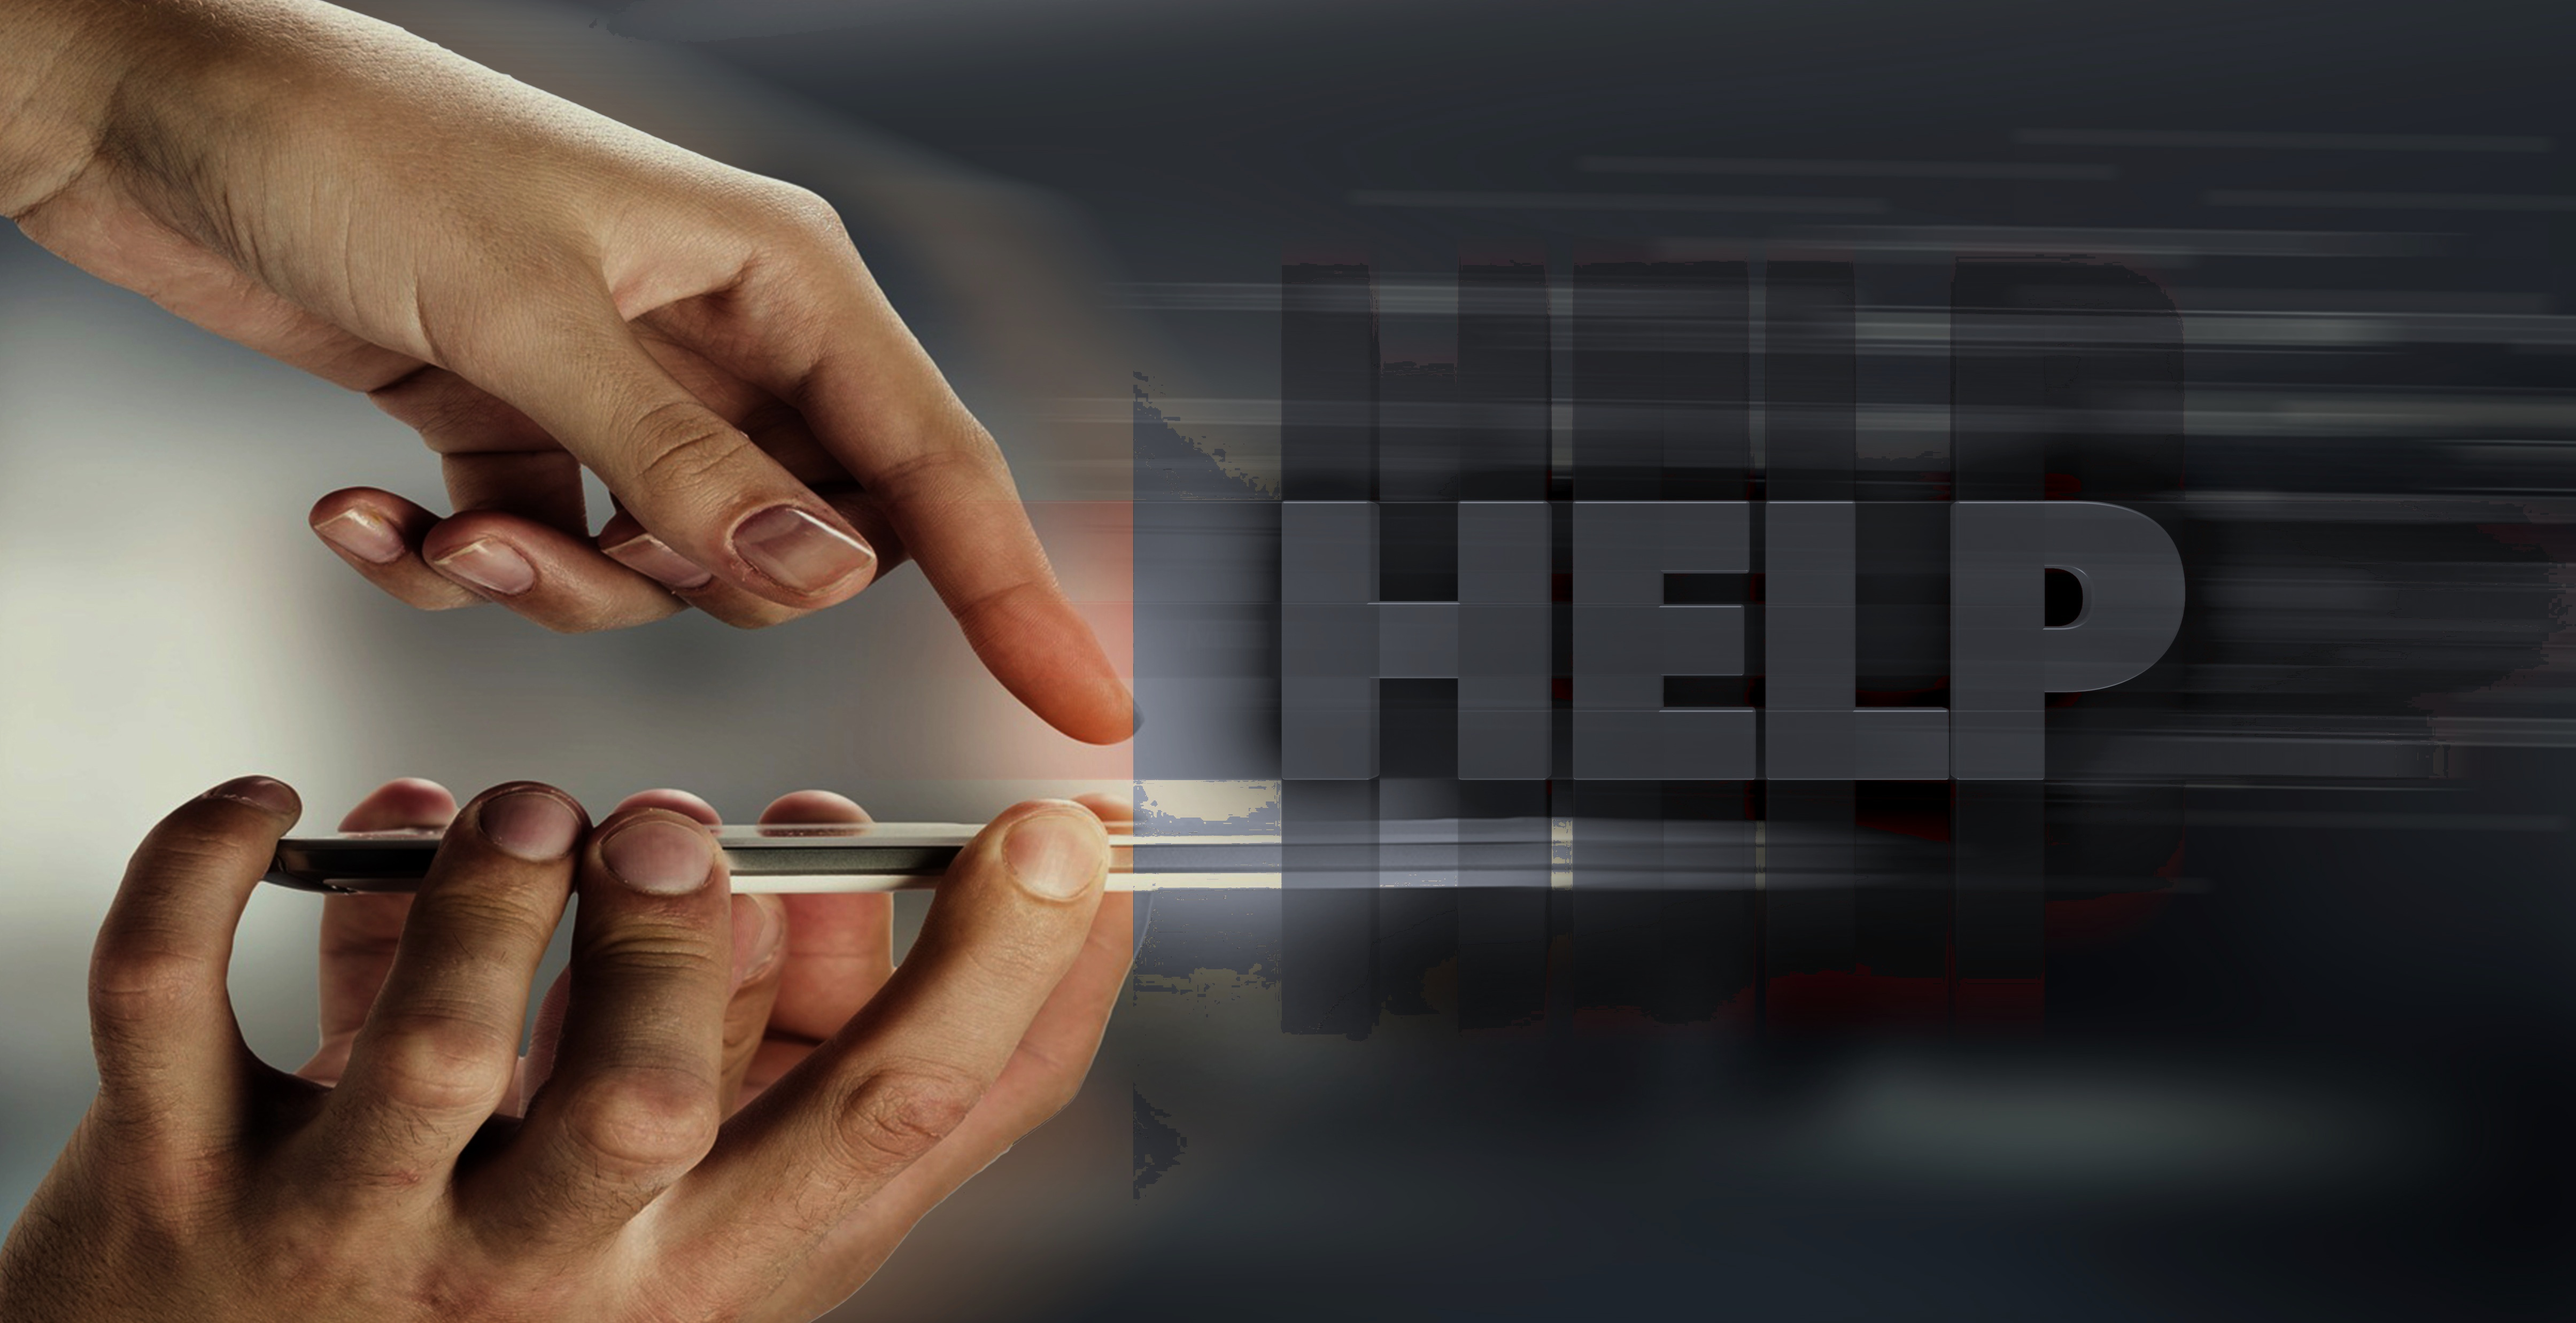
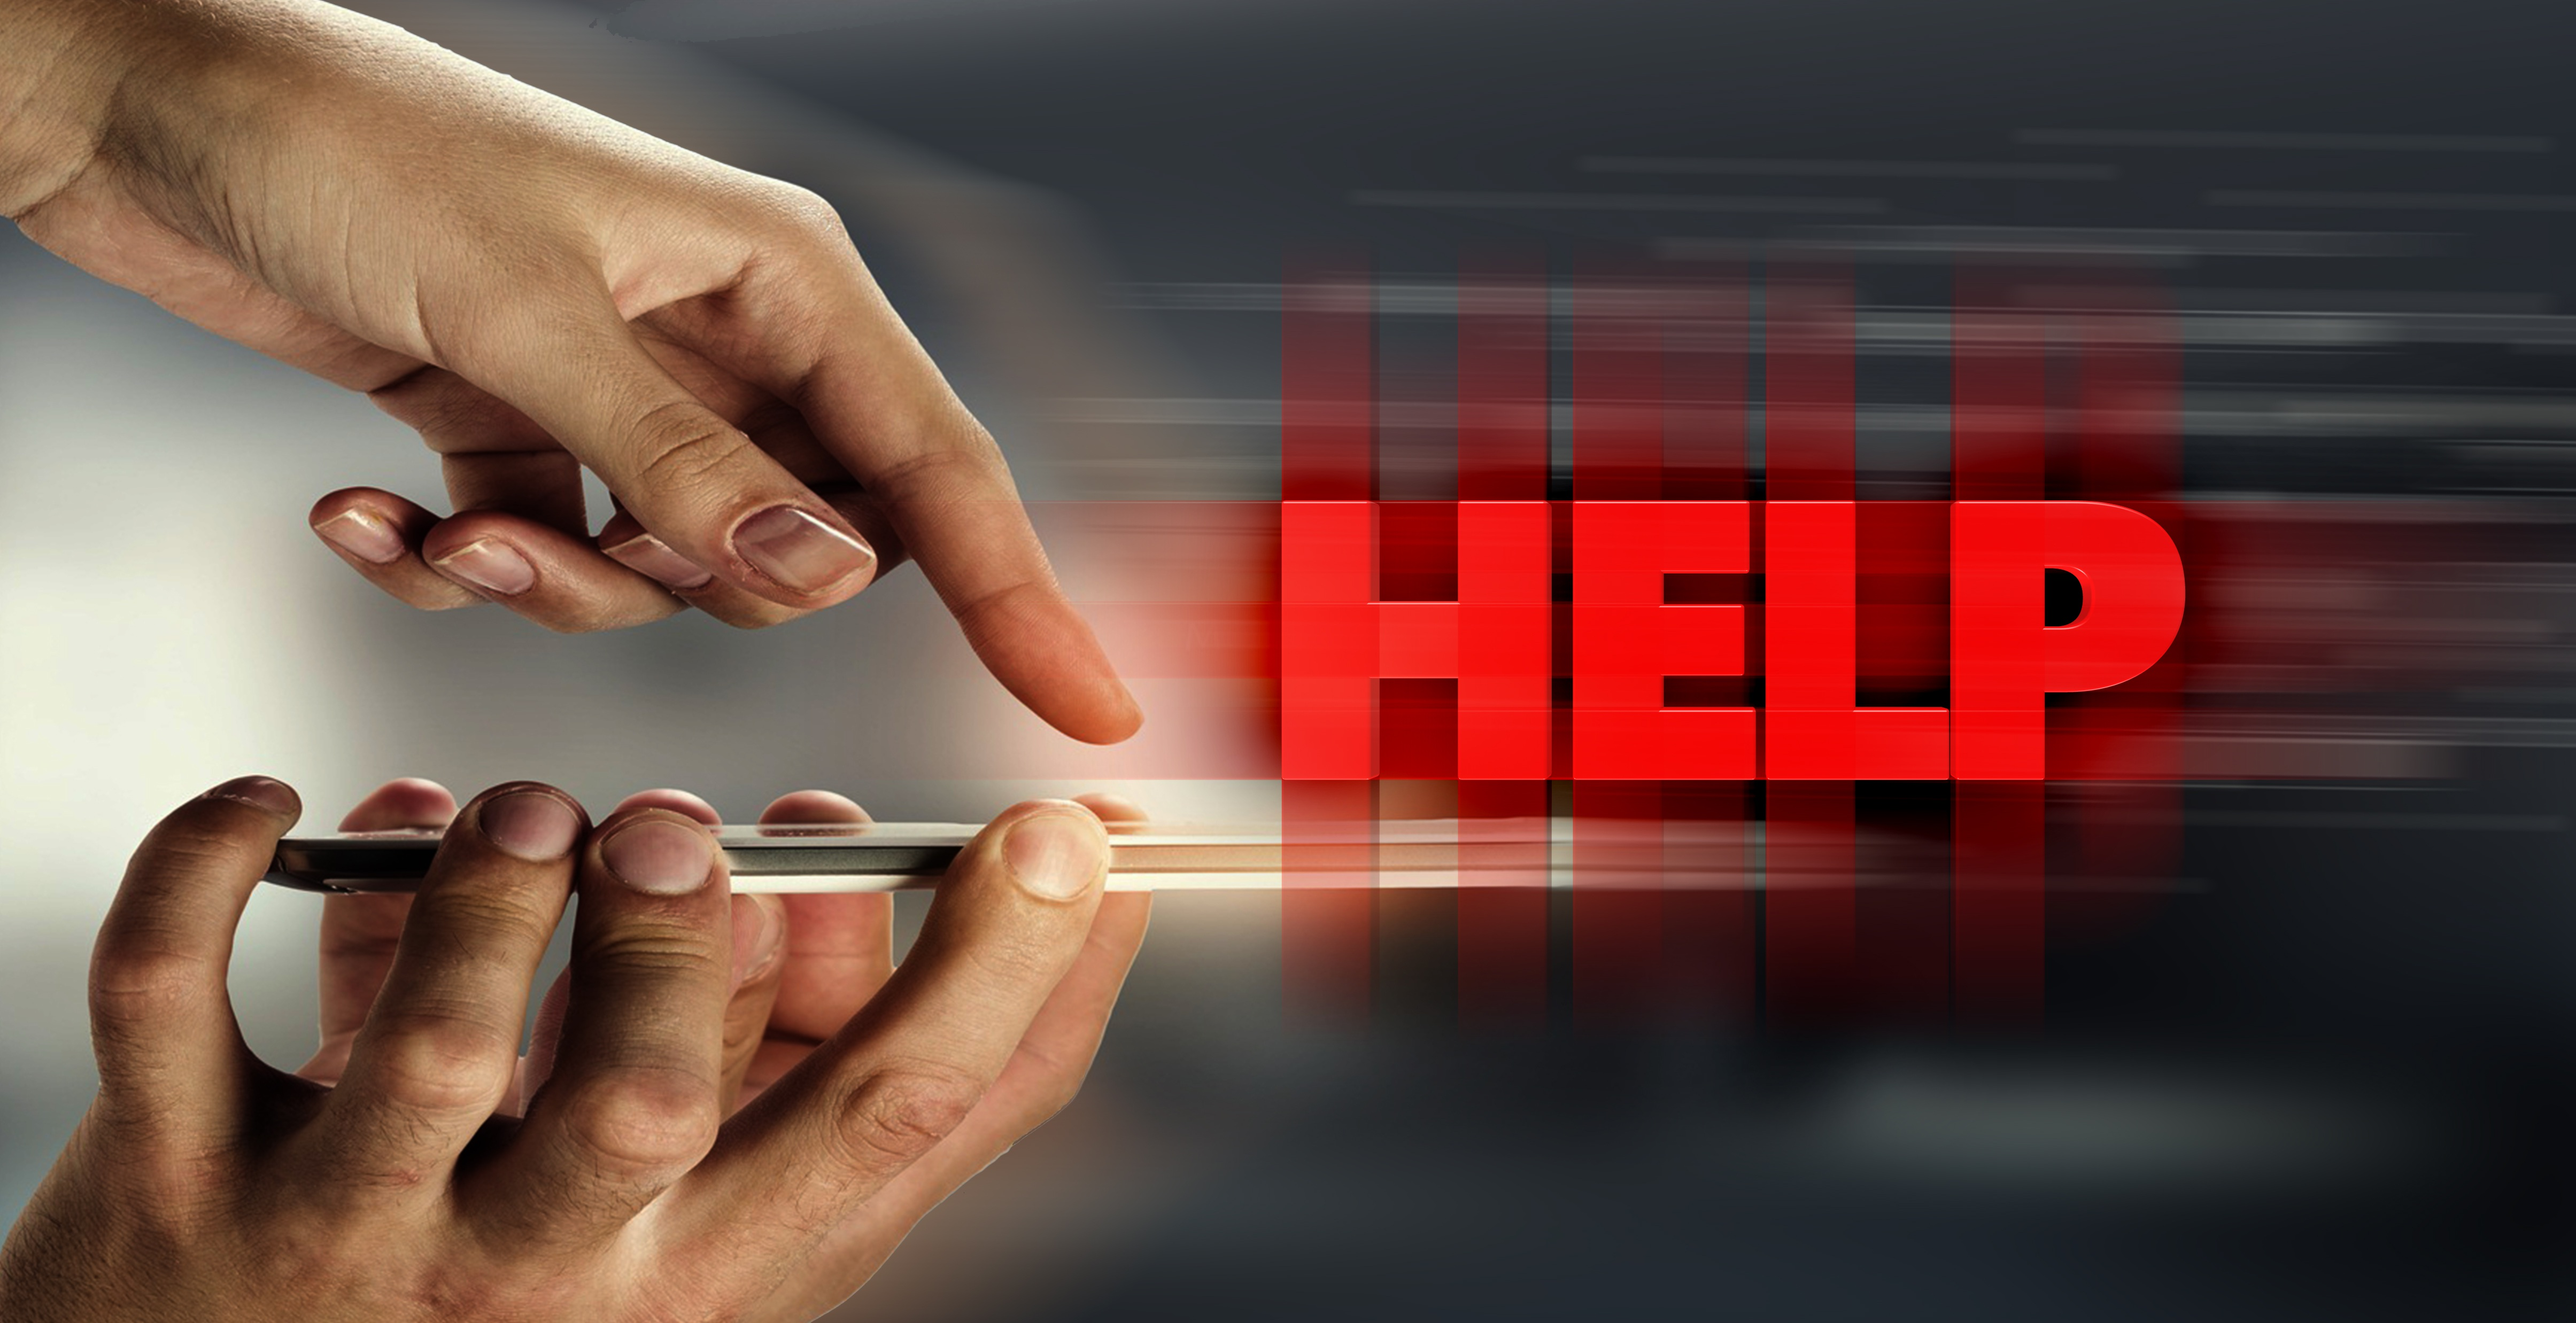
fix(home): revert help image to original and document mandatory docker-native build rule
Restore original authentic help-desk-mobile.jpg media and hero veil styles on citizen landing page. Document mandatory rules in 02_FRONTEND_DESIGN.md and 04_DESIGN_AND_DEVELOPMENT_RULES.md requiring all frontend builds to run strictly inside Docker containers (prohibiting host npm run build) and preserving hero media integrity.

diff --git a/frontend/src/app/globals.css b/frontend/src/app/globals.css
@@ -1089,15 +1089,15 @@ textarea {
   height: 100%;
   object-fit: cover;
   display: block;
-  filter: saturate(0.85) contrast(1.05) brightness(0.88);
+  filter: saturate(0.85) contrast(1.05) brightness(0.92);
 }
 
 .home-hero-veil {
   position: absolute;
   inset: 0;
   background:
-    radial-gradient(ellipse 75% 70% at 35% 45%, transparent 20%, rgba(15, 23, 42, 0.45) 75%, rgba(15, 23, 42, 0.65) 100%),
-    linear-gradient(90deg, rgba(15, 23, 42, 0.55) 0%, rgba(15, 23, 42, 0.3) 45%, transparent 75%);
+    radial-gradient(ellipse 70% 65% at 35% 45%, transparent 25%, rgba(15, 23, 42, 0.35) 75%, rgba(15, 23, 42, 0.55) 100%),
+    linear-gradient(90deg, rgba(15, 23, 42, 0.45) 0%, rgba(15, 23, 42, 0.2) 45%, transparent 70%);
 }
 
 .home-hero-brand {

diff --git a/docs/04_DESIGN_AND_DEVELOPMENT_RULES.md b/docs/04_DESIGN_AND_DEVELOPMENT_RULES.md
@@ -50,7 +50,7 @@ Each backend module under `app/modules/` owns exactly one domain (per `03_BACKEN
 
 ## Section F — Frontend Development Rules
 
-Use the design system tokens in `02_FRONTEND_DESIGN.md` §2 exclusively — no arbitrary hex colors, font sizes, or spacing values introduced ad hoc. Reuse the component list in §4 before creating a new component; a new component is only justified if no existing one (and no reasonable variant of one) covers the need. Every data-driven screen implements the full UX-state set from §6 (initial/loading/success/empty/error/disabled/processing/partially-loaded/unauthorized/expired-session) — a screen with only a happy-path implementation is incomplete, not "done for now." Preserve the priority-pinning behavior for SOS/critical incidents in any component that renders an incident list — this is a safety-relevant UX rule, not a cosmetic one. Keep API-calling logic inside hooks/`lib/api`, never inside `ui/` presentational components. Never hardcode incident/resource data in a component — all such data flows through the typed API client.
+Use the design system tokens in `02_FRONTEND_DESIGN.md` §2 exclusively — no arbitrary hex colors, font sizes, or spacing values introduced ad hoc. Reuse the component list in §4 before creating a new component; a new component is only justified if no existing one (and no reasonable variant of one) covers the need. Every data-driven screen implements the full UX-state set from §6 (initial/loading/success/empty/error/disabled/processing/partially-loaded/unauthorized/expired-session) — a screen with only a happy-path implementation is incomplete, not "done for now." Preserve the priority-pinning behavior for SOS/critical incidents in any component that renders an incident list — this is a safety-relevant UX rule, not a cosmetic one. Keep API-calling logic inside hooks/`lib/api`, never inside `ui/` presentational components. Never hardcode incident/resource data in a component — all such data flows through the typed API client. **Docker-Native Build Rule:** All frontend builds (`npm run build`), dependency additions, and build verifications MUST run inside Docker containers (`docker compose run --rm frontend npm run build`), NEVER as host-level `npm run build`. This prevents local/container cache collisions. Preserve brand/hero imagery (`public/media/help-desk-mobile.jpg`) and its container presentation without aggressive desaturation or muting.
 
 ## Section G — Backend Development Rules
 

diff --git a/docs/02_FRONTEND_DESIGN.md b/docs/02_FRONTEND_DESIGN.md
@@ -195,6 +195,8 @@ src/
 **Environment variables:** `NEXT_PUBLIC_API_BASE_URL`, `NEXT_PUBLIC_WS_URL`, `NEXT_PUBLIC_MAP_TILE_URL` — no secrets in frontend env.
 **Typing:** TypeScript strict mode; API response types generated/maintained to mirror `03_BACKEND_ARCHITECTURE.md` §5 contract exactly.
 **Code conventions:** ESLint + Prettier enforced; no inline business logic in `ui/` components; no hardcoded copy for error/empty states (centralized message constants) to keep tone consistent, especially for SOS/critical-path screens.
+**Docker-Native Build Execution Rule (MANDATORY):** All frontend build operations (`npm run build`, `npm install`, package additions, and compilation validation) MUST be executed **inside Docker containers** (e.g., `docker compose run --rm frontend npm run build` or `docker compose exec frontend npm ...`). **NEVER run local `npm run build` on the host machine.** Host-level builds produce conflicting local caches and build info files (`.next`, `tsconfig.tsbuildinfo`) that cause cache skew with Docker volume mounts (`frontend_next`, `frontend_node_modules`). Rebuild container images via `docker compose build frontend` / `docker compose up -d --build frontend` whenever packages or Dockerfiles change.
+**Brand & Hero Media Integrity Rule (MANDATORY):** The citizen landing hero image (`public/media/help-desk-mobile.jpg`) and its overlay styling (`.home-hero-img`, `.home-hero-veil`) must maintain their authentic color vibrancy and contrast without aggressive desaturation, tinting, or darkening. Overlays must remain subtly balanced for legible white typography and brand marks without muting visual fidelity.
 
 ---
 

diff --git a/docs/FINAL_IMPLEMENTATION_REPORT.md b/docs/FINAL_IMPLEMENTATION_REPORT.md
@@ -156,8 +156,8 @@ docker compose run --rm api alembic current
 | Clean Filter Bar | Removed redundant "Log call" button from dashboard filter bar (canonical action lives in primary sidebar and keyboard shortcuts). |
 | Modular Shadcn Sidebar | Replaced custom rail with full Shadcn `Sidebar` suite (`SidebarProvider`, `Sidebar`, `SidebarHeader`, `SidebarContent`, `SidebarMenu`, `SidebarMenuItem`, `SidebarMenuButton`, `SidebarFooter`, `SidebarTrigger`). Profile settings dropdown integrated into sidebar footer. |
 | Analytics Charts | Replaced raw Recharts tooltips with Shadcn `ChartContainer`, `ChartTooltip`, and `ChartTooltipContent` (`Chart.tsx`) with custom themed indicators, tabular formatting, and accessible borders. |
-| NotificationBell Popover | Verified Radix `Popover` implementation and enhanced alert preview list with `ScrollArea withFade` for smooth scrolling. |
-| Help Desk Hero Media Tuning | High-precision desaturation of 3D red "HELP" streaks and text on `public/media/help-desk-mobile.jpg` to titanium slate hue; dimmed brightness by 12% to preserve focus on interactive UI elements. |
+| Help Desk Hero Media Integrity | Reverted `public/media/help-desk-mobile.jpg` and CSS veil/brightness to original authentic color vibrancy and contrast, per binding design rules. |
+| Docker-Native Build Rule | Mandated and verified that all frontend builds (`npm run build`, `npm install`) MUST execute inside Docker containers (`docker compose run --rm frontend npm run build`), strictly prohibiting local host builds. |
 
 
 
